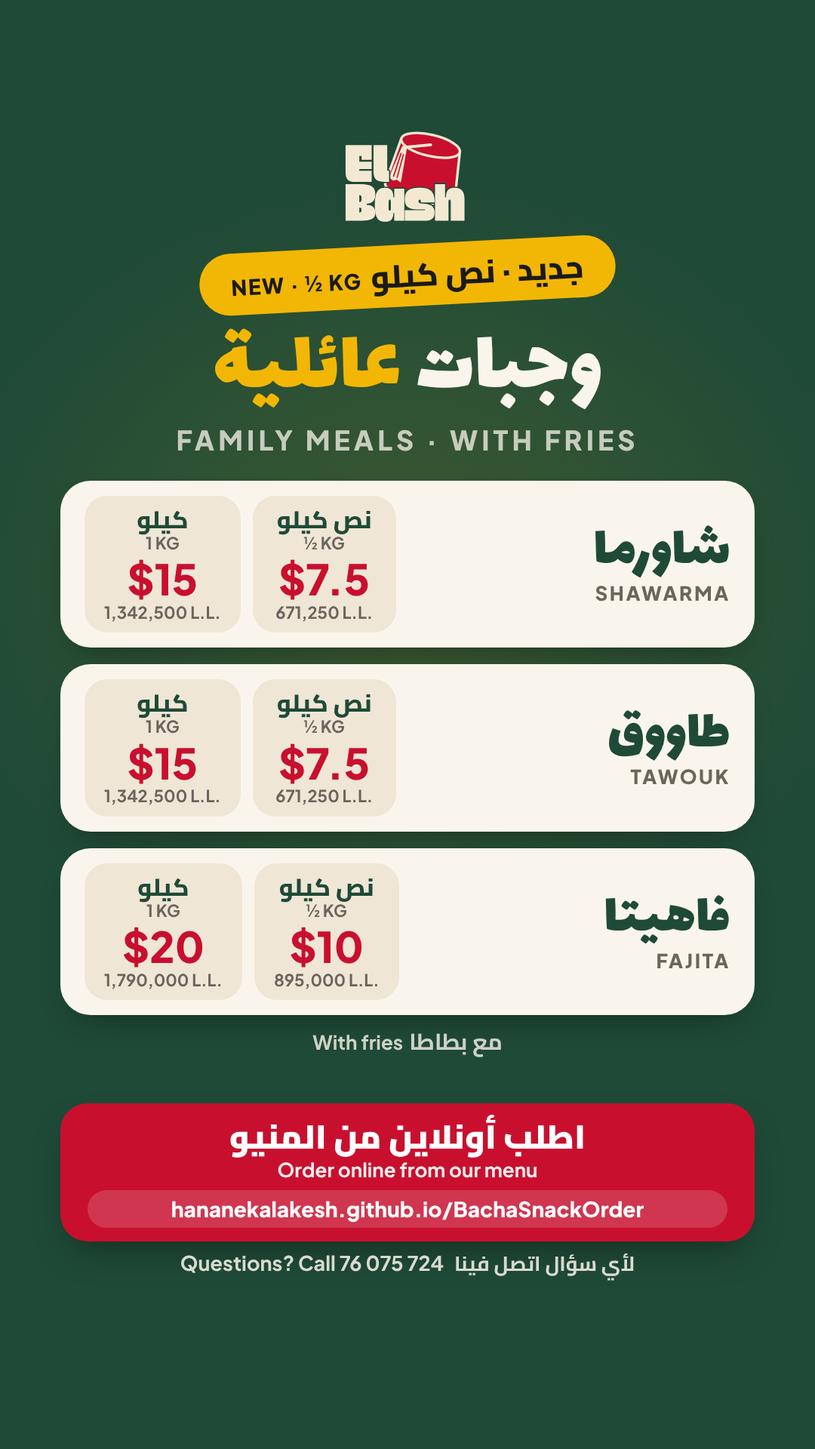
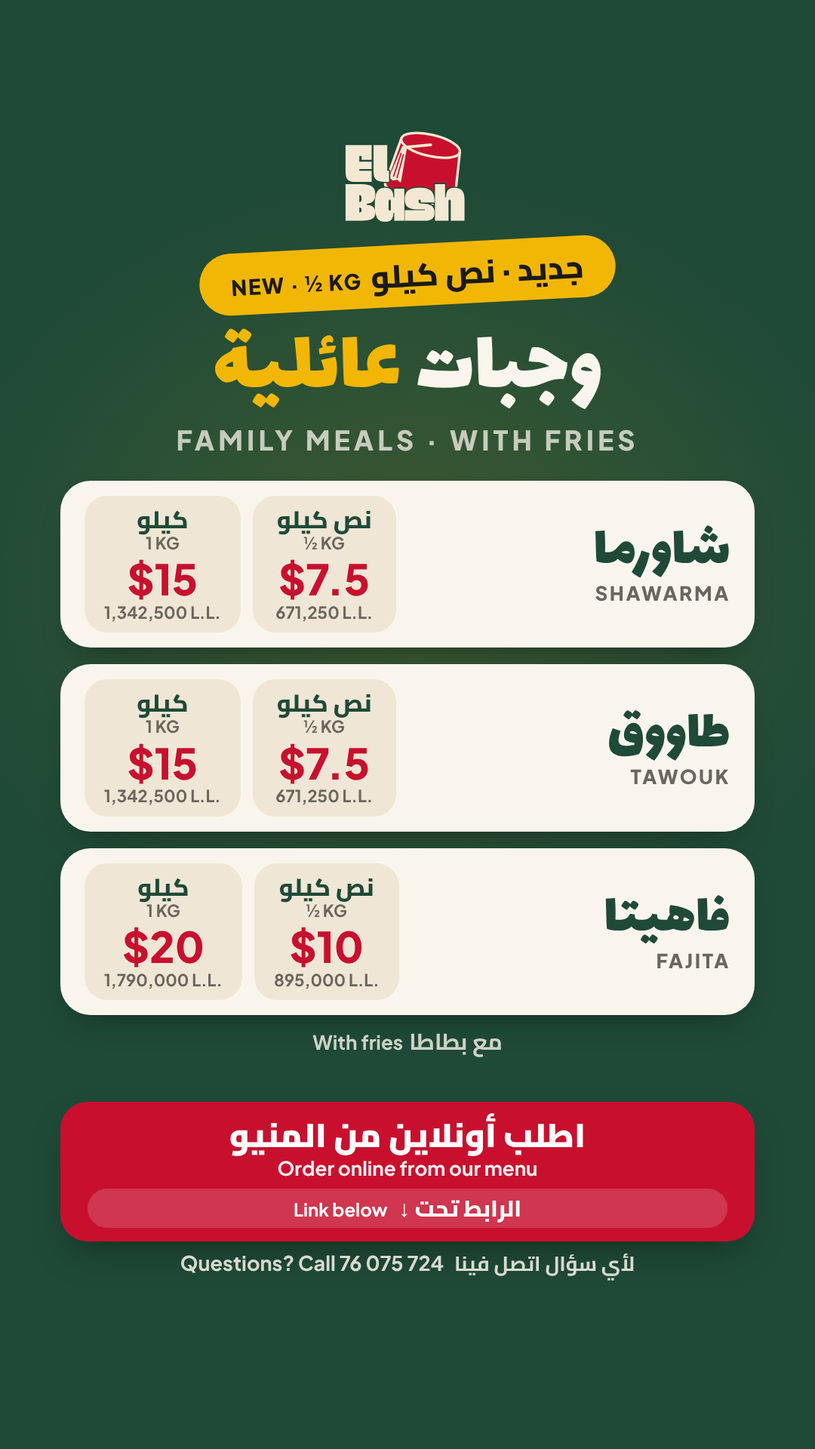
Stories: no web address on the pictures, "link below" instead
The link is pasted under each story, so the pictures say where to find it.

Claude-Session: https://claude.ai/code/session_01DyQKE9mDPFAwzqeFTgFfbZ

Changed region(s): [[0.2139, 0.75, 0.7944, 0.8438]]

diff --git a/assets/stories/prices-chicken-sandwiches.html b/assets/stories/prices-chicken-sandwiches.html
@@ -30,7 +30,8 @@ body.paper h1 span{color:var(--red)}
 .cta{flex:none;margin-top:auto;width:100%;background:var(--red);color:#fff;border-radius:36px;padding:18px 36px;text-align:center;box-shadow:0 22px 50px -22px rgba(0,0,0,.5)}
 .cta b{display:block;font:900 44px/1.2 Cairo}
 .cta i{display:block;font:700 26px/1.3 'Plus Jakarta Sans';font-style:normal;opacity:.92;direction:ltr}
-.cta span{display:block;margin-top:10px;font:800 28px/1.2 'Plus Jakarta Sans';direction:ltr;background:rgba(255,255,255,.16);border-radius:999px;padding:8px 18px}
+.cta span{display:block;margin-top:10px;font:800 30px/1.2 Cairo;background:rgba(255,255,255,.16);border-radius:999px;padding:8px 18px}
+.cta span em{font-style:normal;font-size:24px;font-weight:700;margin-right:8px}
 .call{flex:none;margin-top:12px;text-align:center;font:700 27px/1.2 Cairo;opacity:.85}
 .call .en{font-weight:700;margin-right:8px}
 .list{margin-top:28px;padding-block:8px !important;width:100%;background:var(--paper);color:var(--ink);border-radius:44px;padding:20px 44px;box-shadow:0 22px 50px -20px rgba(0,0,0,.4)}
@@ -45,11 +46,11 @@ body.paper .list{background:#fff;border:3px solid var(--line);box-shadow:none}
 .li .p small{font-size:26px;color:var(--muted);font-weight:700}
 .note{margin-top:16px;font:700 30px/1.3 Cairo;opacity:.8;text-align:center}
 .note .en{margin-right:8px;font-size:26px}
-:root{--h1:92px;--lf:33px;--lp:5px}.li .n i{font-size:21px}</style></head><body class="paper">
+:root{--h1:88px;--lf:32px;--lp:4px}.li .n i{font-size:21px}</style></head><body class="paper">
 <img class="logo" src="../elbash/v4/noar-paper.svg" alt="El Bash">
 
 <div class="kicker">الأسعار<span class="en">Prices</span></div>
 <h1>ساندويشات <span>الدجاج</span></h1><div class="sub">Chicken sandwiches · L.L.</div>
 <div class="list"><div class="li"><div class="n"><b>ساندويش شاورما</b><i>Shawarma Sandwich</i></div><span class="d"></span><span class="p">450,000</span></div><div class="li"><div class="n"><b>ساندويش طاووق</b><i>Tawouk Sandwich</i></div><span class="d"></span><span class="p">450,000</span></div><div class="li"><div class="n"><b>ساندويش كريسبي</b><i>Crispy Sandwich</i></div><span class="d"></span><span class="p">500,000</span></div><div class="li"><div class="n"><b>ساندويش زنجر</b><i>Zinger Sandwich</i></div><span class="d"></span><span class="p">500,000</span></div><div class="li"><div class="n"><b>ساندويش إسكالوب</b><i>Escalope Sandwich</i></div><span class="d"></span><span class="p">500,000</span></div><div class="li"><div class="n"><b>ساندويش فاهيتا</b><i>Fajita Sandwich</i></div><span class="d"></span><span class="p">650,000</span></div><div class="li"><div class="n"><b>ساندويش تشيكن ساب</b><i>Chicken Sub Sandwich</i></div><span class="d"></span><span class="p">500,000</span></div><div class="li"><div class="n"><b>ساندويش فرانسيسكو</b><i>Francisco Sandwich</i></div><span class="d"></span><span class="p">500,000</span></div><div class="li"><div class="n"><b>ساندويش دجاج مشوي</b><i>Grilled Chicken Sandwich</i></div><span class="d"></span><span class="p">500,000</span></div><div class="li"><div class="n"><b>ساندويش كباب دجاج</b><i>Chicken Kebab Sandwich</i></div><span class="d"></span><span class="p">500,000</span></div><div class="li"><div class="n"><b>ساندويش بروستد</b><i>Broasted Sandwich</i></div><span class="d"></span><span class="p">500,000</span></div></div>
-<div class="cta"><b>اطلب أونلاين من المنيو</b><i>Order online from our menu</i><span>hananekalakesh.github.io/BachaSnackOrder</span></div><div class="call">لأي سؤال اتصل فينا <span class="en">Questions? Call 76 075 724</span></div>
+<div class="cta"><b>اطلب أونلاين من المنيو</b><i>Order online from our menu</i><span>الرابط تحت ↓ <em class="en">Link below</em></span></div><div class="call">لأي سؤال اتصل فينا <span class="en">Questions? Call 76 075 724</span></div>
 </body></html>

diff --git a/assets/stories/prices-meals.html b/assets/stories/prices-meals.html
@@ -30,7 +30,8 @@ body.paper h1 span{color:var(--red)}
 .cta{flex:none;margin-top:auto;width:100%;background:var(--red);color:#fff;border-radius:36px;padding:18px 36px;text-align:center;box-shadow:0 22px 50px -22px rgba(0,0,0,.5)}
 .cta b{display:block;font:900 44px/1.2 Cairo}
 .cta i{display:block;font:700 26px/1.3 'Plus Jakarta Sans';font-style:normal;opacity:.92;direction:ltr}
-.cta span{display:block;margin-top:10px;font:800 28px/1.2 'Plus Jakarta Sans';direction:ltr;background:rgba(255,255,255,.16);border-radius:999px;padding:8px 18px}
+.cta span{display:block;margin-top:10px;font:800 30px/1.2 Cairo;background:rgba(255,255,255,.16);border-radius:999px;padding:8px 18px}
+.cta span em{font-style:normal;font-size:24px;font-weight:700;margin-right:8px}
 .call{flex:none;margin-top:12px;text-align:center;font:700 27px/1.2 Cairo;opacity:.85}
 .call .en{font-weight:700;margin-right:8px}
 .list{margin-top:28px;padding-block:8px !important;width:100%;background:var(--paper);color:var(--ink);border-radius:44px;padding:20px 44px;box-shadow:0 22px 50px -20px rgba(0,0,0,.4)}
@@ -45,12 +46,12 @@ body.paper .list{background:#fff;border:3px solid var(--line);box-shadow:none}
 .li .p small{font-size:26px;color:var(--muted);font-weight:700}
 .note{margin-top:16px;font:700 30px/1.3 Cairo;opacity:.8;text-align:center}
 .note .en{margin-right:8px;font-size:26px}
-:root{--h1:92px;--lf:33px;--lp:5px}.li .n i{font-size:21px}</style></head><body class="paper">
+:root{--h1:88px;--lf:32px;--lp:4px}.li .n i{font-size:21px}</style></head><body class="paper">
 <img class="logo" src="../elbash/v4/noar-paper.svg" alt="El Bash">
 
 <div class="kicker">الأسعار<span class="en">Prices</span></div>
 <h1>الوجبات</h1><div class="sub">Meals · with fries</div>
 <div class="list"><div class="li"><div class="n"><b>وجبة كريسبي 4–7 قطع</b><i>Crispy Meal · 4–7 PCS</i></div><span class="d"></span><span class="p"><small>from</small> 500,000</span></div><div class="li"><div class="n"><b>وجبة زنجر 4–7 قطع</b><i>Zinger Meal · 4–7 PCS</i></div><span class="d"></span><span class="p"><small>from</small> 500,000</span></div><div class="li"><div class="n"><b>وجبة إسكالوب 3 قطع</b><i>Escalope Meal 3 PCS</i></div><span class="d"></span><span class="p">800,000</span></div><div class="li"><div class="n"><b>وجبة نصف بروستد 5 قطع</b><i>Half Broasted Meal 5 PCS</i></div><span class="d"></span><span class="p">700,000</span></div><div class="li"><div class="n"><b>كيساديا دجاج</b><i>Chicken Quesadilla</i></div><span class="d"></span><span class="p">700,000</span></div><div class="li"><div class="n"><b>وجبة طاووق</b><i>Tawouk Meal</i></div><span class="d"></span><span class="p">750,000</span></div><div class="li"><div class="n"><b>وجبة شاورما</b><i>Shawarma Meal</i></div><span class="d"></span><span class="p">700,000</span></div><div class="li"><div class="n"><b>وجبة وينغز 7 / 14 قطعة</b><i>Wings Meal · 7 / 14 PCS</i></div><span class="d"></span><span class="p">400,000 / 800,000</span></div></div>
 <div class="note">مع بطاطا · الأسعار بالليرة اللبنانية<span class="en">With fries · prices in L.L.</span></div>
-<div class="cta"><b>اطلب أونلاين من المنيو</b><i>Order online from our menu</i><span>hananekalakesh.github.io/BachaSnackOrder</span></div><div class="call">لأي سؤال اتصل فينا <span class="en">Questions? Call 76 075 724</span></div>
+<div class="cta"><b>اطلب أونلاين من المنيو</b><i>Order online from our menu</i><span>الرابط تحت ↓ <em class="en">Link below</em></span></div><div class="call">لأي سؤال اتصل فينا <span class="en">Questions? Call 76 075 724</span></div>
 </body></html>

diff --git a/assets/stories/menu-online.html b/assets/stories/menu-online.html
@@ -30,7 +30,8 @@ body.paper h1 span{color:var(--red)}
 .cta{flex:none;margin-top:auto;width:100%;background:var(--red);color:#fff;border-radius:36px;padding:18px 36px;text-align:center;box-shadow:0 22px 50px -22px rgba(0,0,0,.5)}
 .cta b{display:block;font:900 44px/1.2 Cairo}
 .cta i{display:block;font:700 26px/1.3 'Plus Jakarta Sans';font-style:normal;opacity:.92;direction:ltr}
-.cta span{display:block;margin-top:10px;font:800 28px/1.2 'Plus Jakarta Sans';direction:ltr;background:rgba(255,255,255,.16);border-radius:999px;padding:8px 18px}
+.cta span{display:block;margin-top:10px;font:800 30px/1.2 Cairo;background:rgba(255,255,255,.16);border-radius:999px;padding:8px 18px}
+.cta span em{font-style:normal;font-size:24px;font-weight:700;margin-right:8px}
 .call{flex:none;margin-top:12px;text-align:center;font:700 27px/1.2 Cairo;opacity:.85}
 .call .en{font-weight:700;margin-right:8px}
 .list{margin-top:28px;padding-block:8px !important;width:100%;background:var(--paper);color:var(--ink);border-radius:44px;padding:20px 44px;box-shadow:0 22px 50px -20px rgba(0,0,0,.4)}
@@ -51,9 +52,9 @@ body.paper .list{background:#fff;border:3px solid var(--line);box-shadow:none}
 .steps b{flex:none;width:86px;height:86px;border-radius:50%;background:var(--red);color:#fff;display:flex;align-items:center;justify-content:center;font:800 48px 'Plus Jakarta Sans'}
 .steps p{font:800 48px/1.2 Cairo}
 .steps i{display:block;font:700 28px/1.3 'Plus Jakarta Sans';font-style:normal;color:var(--muted)}
-.paste{margin-top:54px;width:100%;height:190px;border:6px dashed rgba(250,245,236,.6);border-radius:40px;display:flex;flex-direction:column;align-items:center;justify-content:center;font:800 44px/1.2 Cairo;color:var(--mustard)}
-.paste .en{font:700 28px/1.3 'Plus Jakarta Sans';color:var(--paper);opacity:.7}
-.url{margin-top:22px;font:800 34px/1 'Plus Jakarta Sans';direction:ltr;opacity:.85}
+.paste{margin-top:auto;margin-bottom:10px;width:100%;padding:26px 0;border-radius:40px;background:var(--red);color:#fff !important;box-shadow:0 22px 50px -22px rgba(0,0,0,.5);display:flex;flex-direction:column;align-items:center;justify-content:center;font:800 48px/1.2 Cairo}
+.paste .en{font:700 28px/1.3 'Plus Jakarta Sans';opacity:.9}
+.paste b{font:800 64px/1 'Plus Jakarta Sans';margin-top:6px}
 </style></head><body class="">
 <img class="logo" src="../elbash/v4/noar-green.svg" alt="El Bash">
 
@@ -65,7 +66,6 @@ body.paper .list{background:#fff;border:3px solid var(--line);box-shadow:none}
   <div><b>2</b><p>اختار وزيد عالطلب<i class="en">Pick your food</i></p></div>
   <div><b>3</b><p>ابعت الطلب<i class="en">Send your order</i></p></div>
 </div>
-<div class="paste">حط رابط المنيو هون<span class="en">Link sticker here</span></div>
-<div class="url">hananekalakesh.github.io/BachaSnackOrder</div>
+<div class="paste">الرابط تحت<span class="en">Link below</span><b>↓</b></div>
 <div class="call">لأي سؤال اتصل فينا <span class="en">Questions? Call 76 075 724</span></div>
 </body></html>

diff --git a/assets/stories/sauces-extras.html b/assets/stories/sauces-extras.html
@@ -30,7 +30,8 @@ body.paper h1 span{color:var(--red)}
 .cta{flex:none;margin-top:auto;width:100%;background:var(--red);color:#fff;border-radius:36px;padding:18px 36px;text-align:center;box-shadow:0 22px 50px -22px rgba(0,0,0,.5)}
 .cta b{display:block;font:900 44px/1.2 Cairo}
 .cta i{display:block;font:700 26px/1.3 'Plus Jakarta Sans';font-style:normal;opacity:.92;direction:ltr}
-.cta span{display:block;margin-top:10px;font:800 28px/1.2 'Plus Jakarta Sans';direction:ltr;background:rgba(255,255,255,.16);border-radius:999px;padding:8px 18px}
+.cta span{display:block;margin-top:10px;font:800 30px/1.2 Cairo;background:rgba(255,255,255,.16);border-radius:999px;padding:8px 18px}
+.cta span em{font-style:normal;font-size:24px;font-weight:700;margin-right:8px}
 .call{flex:none;margin-top:12px;text-align:center;font:700 27px/1.2 Cairo;opacity:.85}
 .call .en{font-weight:700;margin-right:8px}
 .list{margin-top:28px;padding-block:8px !important;width:100%;background:var(--paper);color:var(--ink);border-radius:44px;padding:20px 44px;box-shadow:0 22px 50px -20px rgba(0,0,0,.4)}
@@ -60,5 +61,5 @@ body.paper .list{background:#fff;border:3px solid var(--line);box-shadow:none}
 <div class="sub">Sauces &amp; extras</div>
 <div class="tiles"><div class="t"><img src="../../photos/garlic-sauce.jpg" alt=""><b>صوص ثوم</b><i class="en">Garlic Sauce</i><strong class="en">50,000</strong></div><div class="t"><img src="../../photos/cocktail-sauce.jpg" alt=""><b>صوص كوكتيل</b><i class="en">Cocktail Sauce</i><strong class="en">50,000</strong></div><div class="t"><img src="../../photos/honey-mustard-sauce.jpg" alt=""><b>صوص هني ماستارد</b><i class="en">Honey Mustard Sauce</i><strong class="en">50,000</strong></div><div class="t"><img src="../../photos/barbecue-sauce.jpg" alt=""><b>صوص باربكيو</b><i class="en">Barbecue Sauce</i><strong class="en">50,000</strong></div><div class="t"><img src="../../photos/cheddar-cup-small.jpg" alt=""><b>كوب تشيدر (صغير)</b><i class="en">Cheddar Cup (Small)</i><strong class="en">75,000</strong></div><div class="t"><img src="../../photos/coleslaw.jpg" alt=""><b>سلطة ملفوف</b><i class="en">Coleslaw</i><strong class="en">100,000</strong></div></div>
 <div class="note">الأسعار بالليرة اللبنانية<span class="en">Prices in L.L.</span></div>
-<div class="cta"><b>اطلب أونلاين من المنيو</b><i>Order online from our menu</i><span>hananekalakesh.github.io/BachaSnackOrder</span></div><div class="call">لأي سؤال اتصل فينا <span class="en">Questions? Call 76 075 724</span></div>
+<div class="cta"><b>اطلب أونلاين من المنيو</b><i>Order online from our menu</i><span>الرابط تحت ↓ <em class="en">Link below</em></span></div><div class="call">لأي سؤال اتصل فينا <span class="en">Questions? Call 76 075 724</span></div>
 </body></html>

diff --git a/assets/stories/family-half-kg.html b/assets/stories/family-half-kg.html
@@ -30,7 +30,8 @@ body.paper h1 span{color:var(--red)}
 .cta{flex:none;margin-top:auto;width:100%;background:var(--red);color:#fff;border-radius:36px;padding:18px 36px;text-align:center;box-shadow:0 22px 50px -22px rgba(0,0,0,.5)}
 .cta b{display:block;font:900 44px/1.2 Cairo}
 .cta i{display:block;font:700 26px/1.3 'Plus Jakarta Sans';font-style:normal;opacity:.92;direction:ltr}
-.cta span{display:block;margin-top:10px;font:800 28px/1.2 'Plus Jakarta Sans';direction:ltr;background:rgba(255,255,255,.16);border-radius:999px;padding:8px 18px}
+.cta span{display:block;margin-top:10px;font:800 30px/1.2 Cairo;background:rgba(255,255,255,.16);border-radius:999px;padding:8px 18px}
+.cta span em{font-style:normal;font-size:24px;font-weight:700;margin-right:8px}
 .call{flex:none;margin-top:12px;text-align:center;font:700 27px/1.2 Cairo;opacity:.85}
 .call .en{font-weight:700;margin-right:8px}
 .list{margin-top:28px;padding-block:8px !important;width:100%;background:var(--paper);color:var(--ink);border-radius:44px;padding:20px 44px;box-shadow:0 22px 50px -20px rgba(0,0,0,.4)}
@@ -67,5 +68,5 @@ body.paper .list{background:#fff;border:3px solid var(--line);box-shadow:none}
 <div class="sz"><span><em>نص كيلو</em><i class="en">½ KG</i><strong class="en">$7.5</strong><small class="en">671,250 L.L.</small></span><span><em>كيلو</em><i class="en">1 KG</i><strong class="en">$15</strong><small class="en">1,342,500 L.L.</small></span></div></div><div class="fm"><div class="n"><b>فاهيتا</b><i class="en">Fajita</i></div>
 <div class="sz"><span><em>نص كيلو</em><i class="en">½ KG</i><strong class="en">$10</strong><small class="en">895,000 L.L.</small></span><span><em>كيلو</em><i class="en">1 KG</i><strong class="en">$20</strong><small class="en">1,790,000 L.L.</small></span></div></div></div>
 <div class="note">مع بطاطا<span class="en">With fries</span></div>
-<div class="cta"><b>اطلب أونلاين من المنيو</b><i>Order online from our menu</i><span>hananekalakesh.github.io/BachaSnackOrder</span></div><div class="call">لأي سؤال اتصل فينا <span class="en">Questions? Call 76 075 724</span></div>
+<div class="cta"><b>اطلب أونلاين من المنيو</b><i>Order online from our menu</i><span>الرابط تحت ↓ <em class="en">Link below</em></span></div><div class="call">لأي سؤال اتصل فينا <span class="en">Questions? Call 76 075 724</span></div>
 </body></html>

diff --git a/assets/stories/new-half-broasted-meal.html b/assets/stories/new-half-broasted-meal.html
@@ -30,7 +30,8 @@ body.paper h1 span{color:var(--red)}
 .cta{flex:none;margin-top:auto;width:100%;background:var(--red);color:#fff;border-radius:36px;padding:18px 36px;text-align:center;box-shadow:0 22px 50px -22px rgba(0,0,0,.5)}
 .cta b{display:block;font:900 44px/1.2 Cairo}
 .cta i{display:block;font:700 26px/1.3 'Plus Jakarta Sans';font-style:normal;opacity:.92;direction:ltr}
-.cta span{display:block;margin-top:10px;font:800 28px/1.2 'Plus Jakarta Sans';direction:ltr;background:rgba(255,255,255,.16);border-radius:999px;padding:8px 18px}
+.cta span{display:block;margin-top:10px;font:800 30px/1.2 Cairo;background:rgba(255,255,255,.16);border-radius:999px;padding:8px 18px}
+.cta span em{font-style:normal;font-size:24px;font-weight:700;margin-right:8px}
 .call{flex:none;margin-top:12px;text-align:center;font:700 27px/1.2 Cairo;opacity:.85}
 .call .en{font-weight:700;margin-right:8px}
 .list{margin-top:28px;padding-block:8px !important;width:100%;background:var(--paper);color:var(--ink);border-radius:44px;padding:20px 44px;box-shadow:0 22px 50px -20px rgba(0,0,0,.4)}
@@ -51,5 +52,5 @@ body.paper .list{background:#fff;border:3px solid var(--line);box-shadow:none}
 <h1>وجبة <span>نصف بروستد</span></h1><div class="sub">Half Broasted Meal · 5 PCS</div>
 <div class="photo"><img src="../../photos/half-broasted-meal.jpg" alt=""><div class="price-tag">700,000<small>L.L.</small></div></div>
 <div class="desc">دجاج بروستد، بطاطا، صوص ثوم، كبيس وسلطة ملفوف<span class="en">Broasted chicken, fries, garlic sauce, pickles, coleslaw</span></div>
-<div class="cta"><b>اطلب أونلاين من المنيو</b><i>Order online from our menu</i><span>hananekalakesh.github.io/BachaSnackOrder</span></div><div class="call">لأي سؤال اتصل فينا <span class="en">Questions? Call 76 075 724</span></div>
+<div class="cta"><b>اطلب أونلاين من المنيو</b><i>Order online from our menu</i><span>الرابط تحت ↓ <em class="en">Link below</em></span></div><div class="call">لأي سؤال اتصل فينا <span class="en">Questions? Call 76 075 724</span></div>
 </body></html>

diff --git a/assets/stories/spotlight-chicken-sub.html b/assets/stories/spotlight-chicken-sub.html
@@ -30,7 +30,8 @@ body.paper h1 span{color:var(--red)}
 .cta{flex:none;margin-top:auto;width:100%;background:var(--red);color:#fff;border-radius:36px;padding:18px 36px;text-align:center;box-shadow:0 22px 50px -22px rgba(0,0,0,.5)}
 .cta b{display:block;font:900 44px/1.2 Cairo}
 .cta i{display:block;font:700 26px/1.3 'Plus Jakarta Sans';font-style:normal;opacity:.92;direction:ltr}
-.cta span{display:block;margin-top:10px;font:800 28px/1.2 'Plus Jakarta Sans';direction:ltr;background:rgba(255,255,255,.16);border-radius:999px;padding:8px 18px}
+.cta span{display:block;margin-top:10px;font:800 30px/1.2 Cairo;background:rgba(255,255,255,.16);border-radius:999px;padding:8px 18px}
+.cta span em{font-style:normal;font-size:24px;font-weight:700;margin-right:8px}
 .call{flex:none;margin-top:12px;text-align:center;font:700 27px/1.2 Cairo;opacity:.85}
 .call .en{font-weight:700;margin-right:8px}
 .list{margin-top:28px;padding-block:8px !important;width:100%;background:var(--paper);color:var(--ink);border-radius:44px;padding:20px 44px;box-shadow:0 22px 50px -20px rgba(0,0,0,.4)}
@@ -51,5 +52,5 @@ body.paper .list{background:#fff;border:3px solid var(--line);box-shadow:none}
 <h1>تشيكن <span>ساب</span></h1><div class="sub">Chicken Sub Sandwich</div>
 <div class="photo"><img src="../../photos/chicken-sub-sandwich.jpg" alt=""><div class="price-tag">500,000<small>L.L.</small></div></div>
 <div class="desc">دجاج، مايونيز، صوص ثوم، خس وكبيس على خبز الساب<span class="en">Chicken, mayo, garlic paste, lettuce, pickles on submarine bread</span></div>
-<div class="cta"><b>اطلب أونلاين من المنيو</b><i>Order online from our menu</i><span>hananekalakesh.github.io/BachaSnackOrder</span></div><div class="call">لأي سؤال اتصل فينا <span class="en">Questions? Call 76 075 724</span></div>
+<div class="cta"><b>اطلب أونلاين من المنيو</b><i>Order online from our menu</i><span>الرابط تحت ↓ <em class="en">Link below</em></span></div><div class="call">لأي سؤال اتصل فينا <span class="en">Questions? Call 76 075 724</span></div>
 </body></html>

diff --git a/assets/stories/spotlight-mix-appetizer-box.html b/assets/stories/spotlight-mix-appetizer-box.html
@@ -30,7 +30,8 @@ body.paper h1 span{color:var(--red)}
 .cta{flex:none;margin-top:auto;width:100%;background:var(--red);color:#fff;border-radius:36px;padding:18px 36px;text-align:center;box-shadow:0 22px 50px -22px rgba(0,0,0,.5)}
 .cta b{display:block;font:900 44px/1.2 Cairo}
 .cta i{display:block;font:700 26px/1.3 'Plus Jakarta Sans';font-style:normal;opacity:.92;direction:ltr}
-.cta span{display:block;margin-top:10px;font:800 28px/1.2 'Plus Jakarta Sans';direction:ltr;background:rgba(255,255,255,.16);border-radius:999px;padding:8px 18px}
+.cta span{display:block;margin-top:10px;font:800 30px/1.2 Cairo;background:rgba(255,255,255,.16);border-radius:999px;padding:8px 18px}
+.cta span em{font-style:normal;font-size:24px;font-weight:700;margin-right:8px}
 .call{flex:none;margin-top:12px;text-align:center;font:700 27px/1.2 Cairo;opacity:.85}
 .call .en{font-weight:700;margin-right:8px}
 .list{margin-top:28px;padding-block:8px !important;width:100%;background:var(--paper);color:var(--ink);border-radius:44px;padding:20px 44px;box-shadow:0 22px 50px -20px rgba(0,0,0,.4)}
@@ -51,5 +52,5 @@ body.paper .list{background:#fff;border:3px solid var(--line);box-shadow:none}
 <h1>علبة <span>ميكس</span> مقبلات</h1><div class="sub">Mix Appetizer Box</div>
 <div class="photo"><img src="../../photos/mix-appetizer-box.jpg" alt=""><div class="price-tag">600,000<small>L.L.</small></div></div>
 <div class="desc">2 حلقات بصل، 2 موزاريلا، 2 ناغتس وبطاطا<span class="en">2 PCS onion rings, 2 PCS mozzarella, 2 PCS nuggets and fries</span></div>
-<div class="cta"><b>اطلب أونلاين من المنيو</b><i>Order online from our menu</i><span>hananekalakesh.github.io/BachaSnackOrder</span></div><div class="call">لأي سؤال اتصل فينا <span class="en">Questions? Call 76 075 724</span></div>
+<div class="cta"><b>اطلب أونلاين من المنيو</b><i>Order online from our menu</i><span>الرابط تحت ↓ <em class="en">Link below</em></span></div><div class="call">لأي سؤال اتصل فينا <span class="en">Questions? Call 76 075 724</span></div>
 </body></html>

diff --git a/assets/stories/spotlight-mozzarella-sticks.html b/assets/stories/spotlight-mozzarella-sticks.html
@@ -30,7 +30,8 @@ body.paper h1 span{color:var(--red)}
 .cta{flex:none;margin-top:auto;width:100%;background:var(--red);color:#fff;border-radius:36px;padding:18px 36px;text-align:center;box-shadow:0 22px 50px -22px rgba(0,0,0,.5)}
 .cta b{display:block;font:900 44px/1.2 Cairo}
 .cta i{display:block;font:700 26px/1.3 'Plus Jakarta Sans';font-style:normal;opacity:.92;direction:ltr}
-.cta span{display:block;margin-top:10px;font:800 28px/1.2 'Plus Jakarta Sans';direction:ltr;background:rgba(255,255,255,.16);border-radius:999px;padding:8px 18px}
+.cta span{display:block;margin-top:10px;font:800 30px/1.2 Cairo;background:rgba(255,255,255,.16);border-radius:999px;padding:8px 18px}
+.cta span em{font-style:normal;font-size:24px;font-weight:700;margin-right:8px}
 .call{flex:none;margin-top:12px;text-align:center;font:700 27px/1.2 Cairo;opacity:.85}
 .call .en{font-weight:700;margin-right:8px}
 .list{margin-top:28px;padding-block:8px !important;width:100%;background:var(--paper);color:var(--ink);border-radius:44px;padding:20px 44px;box-shadow:0 22px 50px -20px rgba(0,0,0,.4)}
@@ -51,5 +52,5 @@ body.paper .list{background:#fff;border:3px solid var(--line);box-shadow:none}
 <h1>موزاريلا <span>ستيكس</span></h1><div class="sub">Mozzarella Sticks · 6 PCS</div>
 <div class="photo"><img src="../../photos/mozzarella-sticks.jpg" alt=""><div class="price-tag">500,000<small>L.L.</small></div></div>
 <div class="desc">لقيمات الجبنة مع بطاطا وصوص<span class="en">Cheesy bites with fries and sauce</span></div>
-<div class="cta"><b>اطلب أونلاين من المنيو</b><i>Order online from our menu</i><span>hananekalakesh.github.io/BachaSnackOrder</span></div><div class="call">لأي سؤال اتصل فينا <span class="en">Questions? Call 76 075 724</span></div>
+<div class="cta"><b>اطلب أونلاين من المنيو</b><i>Order online from our menu</i><span>الرابط تحت ↓ <em class="en">Link below</em></span></div><div class="call">لأي سؤال اتصل فينا <span class="en">Questions? Call 76 075 724</span></div>
 </body></html>
